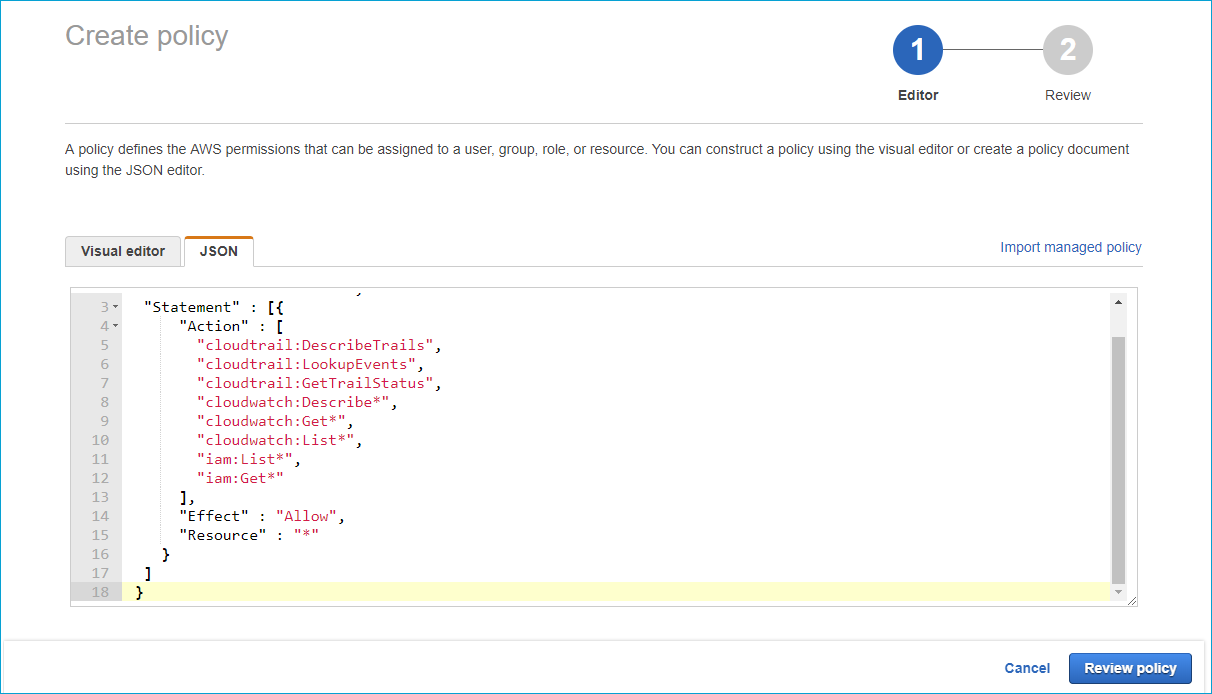
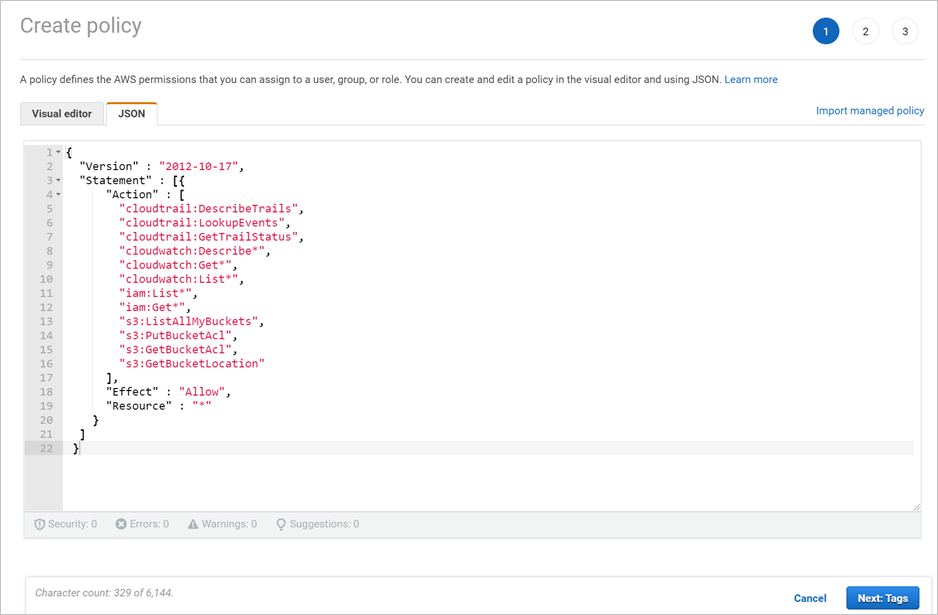
Update AWS documentation

diff --git a/CloudAppSecurityDocs/connect-aws-to-microsoft-cloud-app-security.md b/CloudAppSecurityDocs/connect-aws-to-microsoft-cloud-app-security.md
@@ -1,7 +1,7 @@
 ---
 title: Connect Amazon Web Services with Cloud App Security
 description: This article provides information about how to connect your AWS app to Cloud App Security using the API connector for visibility and control over use.
-ms.date: 06/24/2020
+ms.date: 05/12/2021
 ms.topic: how-to
 ---
 # Connect AWS to Microsoft Cloud App Security
@@ -15,7 +15,7 @@ You can connect one or both of the following AWS to Cloud App Security connectio
 - **Security auditing**: This connection gives you visibility into and control over AWS app use.
 - **Security configuration**: This connection gives you fundamental security recommendations based on the Center for Internet Security (CIS) benchmark for AWS.
 
-Since you can add either or both of the connections, the steps in this article are written as independent instructions. If you have already added one of the connections, where relevant edit the existing configurations.
+Since you can add either or both of the connections, the steps in this article are written as independent instructions. If you've already added one of the connections, where relevant edit the existing configurations.
 
 ## How to connect AWS Security auditing to Cloud App Security
 
@@ -23,19 +23,23 @@ Use the following steps to configure your AWS auditing and then connect it to Cl
 
 ### Step 1: Configure Amazon Web Services auditing
 
-1. In your [Amazon Web Services console](https://console.aws.amazon.com/), under **Security, Identity & Compliance**, click **IAM**.
+1. In your [Amazon Web Services console](https://console.aws.amazon.com/), under **Security, Identity & Compliance**, select **IAM**.
 
     ![AWS identity and access](media/aws-identity-and-access.png "AWS identity and access")
 
-1. Select **Users** and then click **Add user**.
+1. Select **Users** and then select **Add user**.
 
     ![AWS users](media/aws-users.png "AWS users")
 
-1. In the **Details** step, provide a new user name for Cloud App Security. Make sure that under **Access type** you select **Programmatic access** and click **Next Permissions**.<a name="set-permissions"></a>
+1. In the **Details** step, provide a new user name for Cloud App Security. Make sure that under **Access type** you select **Programmatic access** and select **Next Permissions**.<a name="set-permissions"></a>
 
     ![Create user in AWS](media/aws-create-user.png "Create user in AWS")
 
-1. Click on the **JSON** tab:
+1. Select **Attach existing policies directly**, and then **Create policy**.
+
+    ![Attach existing policies](media/attach-existing-policies.png)
+
+1. Select the **JSON** tab:
 
     ![AWS JSON tab](media/aws-json.png "AWS JSON tab")
 
@@ -66,74 +70,68 @@ Use the following steps to configure your AWS auditing and then connect it to Cl
      }
     ```
 
+1. Select **Next: Tags**
+
      ![AWS code](media/aws-code.png "AWS code")
 
-1. Click **Review policy**.
+1. Select **Next: Review**.
 
-1. Provide a **Name** and click **Create policy**.
+    ![Add tags (optional)](media/aws-add-tags-optional.png)
+
+1. Provide a **Name** and select **Create policy**.
 
     ![Provide AWS policy name](media/aws-create-policy.png "Provide AWS policy name")
 
-1. Back in the **Add user** screen, refresh the list if necessary, and select the user you created, and click **Next Review**.
+1. Back in the **Add user** screen, refresh the list if necessary, and select the user you created, and select **Next: Tags**.
 
     ![Attach existing policy in AWS](media/aws-attach-policy.png "Attach existing policy in AWS")
 
-1. If all the details are correct, click **Create user**.
+1. Select **Next: Review**.
+
+1. If all the details are correct, select **Create user**.
 
     ![User permissions in AWS](media/aws-user-permissions.png "Review user permissions in AWS")
 
-1. When you get the success message, click **Download .csv** to save a copy of the new user's credentials, you need these later.
+1. When you get the success message, select **Download .csv** to save a copy of the new user's credentials. You'll need these later.
 
     ![Download csv in AWS](media/aws-download-csv.png "Download csv in AWS")
-
-1. In the AWS console, click **Services** and then under **Management Tools** click **CloudTrail**.
-
-    ![AWS CloudTrail](media/aws-cloudtrail.png "AWS CloudTrail")
-
-    If you haven't used CloudTrail before, click **Get Started** and set it up by providing a name and selecting the appropriate S3 bucket and click **Turn On**. To make sure you have complete coverage, set **Apply to all regions** to **Yes**.
-
-    ![Turn on CloudTrail in AWS](media/aws-turnon-cloudtrail.png "Turn on CloudTrail in AWS")
-
-    You should see the new CloudTrail name in the **Trails** list.
-
-    ![CloudTrail list in AWS](media/aws-cloudtrail-list.png "CloudTrail list in AWS")
 
     > [!NOTE]
     > After connecting AWS, you'll receive events for seven days prior to connection. If you just enabled CloudTrail, you'll receive events from the time you enabled CloudTrail.
 
 ### Step 2: Connect Amazon Web Services auditing to Cloud App Security
 
-1. In the Cloud App Security portal, click **Investigate** and then **Connected apps**.
+1. In the Cloud App Security portal, select **Investigate** and then **Connected apps**.
 
 1. In the **App connectors** page, to provide the AWS connector credentials, do one of the following:
 
     **For a new connector**
 
-    1. Click the plus sign (**+**) followed by **Amazon Web Services**.
+    1. Select the plus sign (**+**) followed by **Amazon Web Services**.
 
         ![connect AWS auditing](media/connect-aws.png "connect AWS")
 
-    1. In the pop-up, provide a name for the connector, and then click **Connect Amazon Web Services**.
+    1. In the pop-up, provide a name for the connector, and then select **Connect Amazon Web Services**.
 
         ![AWS auditing connector name](media/connect-aws-name.png)
 
-    1. On the Connect Amazon Web services page, select **Security auditing**, paste the **Access key** and **Secret key** from the .csv file into the relevant fields, and click **Connect**.
+    1. On the Connect Amazon Web services page, select **Security auditing**, paste the **Access key** and **Secret key** from the .csv file into the relevant fields, and select **Connect**.
 
         ![Connect AWS app security auditing for new connector](media/aws-connect-app-audit.png "Connect AWS app security auditing")
 
     **For an existing connector**
 
-    1. In the list of connectors, on the row in which the AWS connector appears, click **Connect security auditing**.
+    1. In the list of connectors, on the row in which the AWS connector appears, select **Connect security auditing**.
 
         ![Screenshot of the Connected Apps page, showing edit Security Auditing link](media/aws-connect-app-edit-audit.png)
 
-    1. On the Connect Amazon Web Services page, paste the **Access key** and **Secret key** from the .csv file into the relevant fields, and click **Connect**.
+    1. On the Connect Amazon Web Services page, paste the **Access key** and **Secret key** from the .csv file into the relevant fields, and select **Connect**.
 
         ![Connect AWS app security auditing for existing connector](media/aws-connect-app-edit-audit-creds.png "Connect AWS app security auditing")
 
-1. Click **Test API** to make sure the connection succeeded.
+1. Select **Test API** to make sure the connection succeeded.
 
-    Testing may take a couple of minutes. When it's finished, you get a success or failure notification. After receiving a success notice, click **Done**.
+    Testing may take a couple of minutes. When it's finished, you get a success or failure notification. After receiving a success notice, select **Done**.
 
 ## How to connect AWS security configuration to Cloud App Security
 
@@ -171,7 +169,7 @@ Before you can connect AWS security configuration, make sure that you have [set 
 
 1. Follow the *How to connect AWS Security auditing* steps to get to the [permissions](#set-permissions) page.
 
-1. On the permissions page, click **Attach existing policies directly**, apply the **AWSSecurityHubReadOnlyAccess** and **SecurityAudit** policies, and then click **Next Tags**.
+1. On the permissions page, select **Attach existing policies directly**, apply the **AWSSecurityHubReadOnlyAccess** and **SecurityAudit** policies, and then select **Next Tags**.
 
     ![Attach existing policy in AWS](media/aws-attach-policy.png "Attach existing policy in AWS")
 
@@ -182,25 +180,25 @@ Before you can connect AWS security configuration, make sure that you have [set 
     > [!NOTE]
     > Adding tags to the user won't affect the connection.
 
-1. Click **Next Review**.
+1. Select **Next Review**.
 
-1. If all the details are correct, click **Create user**.
+1. If all the details are correct, select **Create user**.
 
     ![User permissions in AWS](media/aws-user-permissions.png "Review user permissions in AWS")
 
-1. When you get the success message, click **Download .csv** to save a copy of the **Access key ID** and the **Secret access key**, you need these later.
+1. When you get the success message, select **Download .csv** to save a copy of the **Access key ID** and the **Secret access key**. You'll need these later.
 
     ![Download csv in AWS](media/aws-download-csv.png "Download csv in AWS")
 
 ### Step 2: Connect Amazon Web Services security configuration to Cloud App Security
 
-1. In Cloud App Security, click **Investigate**, and then select **Connected apps**.
+1. In Cloud App Security, select **Investigate**, and then select **Connected apps**.
 
-1. In the **Security configuration apps** tab, click the plus button, and then select **Amazon Web Services**.
+1. In the **Security configuration apps** tab, select the plus button, and then select **Amazon Web Services**.
 
     ![connect AWS security configuration](media/connect-aws-security-configuration.png)
 
-1. In the **Instance name** page, choose the instance type, and then click **Next**.
+1. In the **Instance name** page, choose the instance type, and then select **Next**.
 
     - For an existing connector, choose the relevant instance.
 
@@ -210,11 +208,11 @@ Before you can connect AWS security configuration, make sure that you have [set 
 
         ![AWS security configuration connector name](media/aws-connect-name.png)
 
-1. In the **Account details** page, paste the **Access key** and **Secret key** from the .csv file into the relevant fields, and then click **Next**.
+1. In the **Account details** page, paste the **Access key** and **Secret key** from the .csv file into the relevant fields, and then select **Next**.
 
     ![Connect AWS account details](media/aws-connect-account-details.png)
 
-1. In the **Finished** page, make sure the connection succeeded, and then click **Finished**.
+1. In the **Finished** page, make sure the connection succeeded, and then select **Finished**.
 
 If you have any problems connecting the app, see [Troubleshooting App Connectors](troubleshooting-api-connectors-using-error-messages.md).
 
